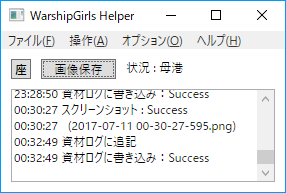
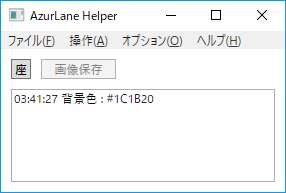
とりあえずリリースするために体裁を整えた

diff --git a/WsGH/Views/MainWindow.xaml b/WsGH/Views/MainWindow.xaml
@@ -23,7 +23,7 @@
 			<MenuItem Header="{Binding Source={x:Static app:ResourceService.Current}, Path=Resources.MenuHeaderAction, Mode=OneWay}">
 				<MenuItem Header="{Binding Source={x:Static app:ResourceService.Current}, Path=Resources.MenuHeaderGetPosition, Mode=OneWay}" Click="GetPositionMenu_Click" />
 				<MenuItem Header="{Binding Source={x:Static app:ResourceService.Current}, Path=Resources.MenuHeaderGetScreenshot, Mode=OneWay}" x:Name="GetScreenshotMenu" IsEnabled="False" Click="GetScreenshotMenu_Click" />
-				<MenuItem Header="{Binding Source={x:Static app:ResourceService.Current}, Path=Resources.MenuHeaderShowWindow, Mode=OneWay}">
+				<MenuItem IsEnabled="False" Header="{Binding Source={x:Static app:ResourceService.Current}, Path=Resources.MenuHeaderShowWindow, Mode=OneWay}">
 					<MenuItem Header="{Binding Source={x:Static app:ResourceService.Current}, Path=Resources.MenuHeaderTimerWindow, Mode=OneWay}" Click="ShowTimerWindow_Click" />
 					<MenuItem Header="{Binding Source={x:Static app:ResourceService.Current}, Path=Resources.MenuHeaderSupplyWindow, Mode=OneWay}" Click="ShowSupplyWindow_Click" />
 				</MenuItem>

diff --git a/WsGH/Views/MainWindow.xaml.cs b/WsGH/Views/MainWindow.xaml.cs
@@ -160,7 +160,7 @@ namespace AzLH {
 			#endregion
 			#region 周辺クラスの初期化
 			SceneRecognition.InitialSceneRecognition();
-			try {
+			/*try {
 				SupplyStore.ReadMainSupply();
 				AddLog($"{Properties.Resources.LoggingTextReadSupplyData}：Success");
 			} catch(Exception) {
@@ -172,7 +172,7 @@ namespace AzLH {
 			}
 			catch (Exception) {
 				AddLog($"{Properties.Resources.LoggingText2ReadSupplyData}：Failed");
-			}
+			}*/
 			#endregion
 			#region DispatcherTimerの初期化
 			// タイマーを作成する
@@ -358,51 +358,51 @@ namespace AzLH {
 				var bindData = tw.DataContext as TimerValue;
 				switch(scene) {
 				case SceneType.Expedition:
-					#region 遠征中なら、遠征時間を読み取る
-					var expEndTime = SceneRecognition.GetExpeditionTimer(captureFrame);
-					foreach(var pair in expEndTime) {
-						switch(pair.Key) {
-						case 0:
-							bindData.ExpTimer1 = pair.Value;
-							break;
-						case 1:
-							bindData.ExpTimer2 = pair.Value;
-							break;
-						case 2:
-							bindData.ExpTimer3 = pair.Value;
-							break;
-						case 3:
-							bindData.ExpTimer4 = pair.Value;
-							break;
-						default:
-							break;
-						}
+				/*#region 遠征中なら、遠征時間を読み取る
+				var expEndTime = SceneRecognition.GetExpeditionTimer(captureFrame);
+				foreach(var pair in expEndTime) {
+					switch(pair.Key) {
+					case 0:
+						bindData.ExpTimer1 = pair.Value;
+						break;
+					case 1:
+						bindData.ExpTimer2 = pair.Value;
+						break;
+					case 2:
+						bindData.ExpTimer3 = pair.Value;
+						break;
+					case 3:
+						bindData.ExpTimer4 = pair.Value;
+						break;
+					default:
+						break;
 					}
-					break;
-				#endregion
+				}
+				break;
+				#endregion*/
 				case SceneType.Build:
-					#region 建造中なら、建造時間を読み取る
-					var buildEndTime = SceneRecognition.GetBuildTimer(captureFrame);
-					foreach(var pair in buildEndTime) {
-						switch(pair.Key) {
-						case 0:
-							bindData.BuildTimer1 = pair.Value;
-							break;
-						case 1:
-							bindData.BuildTimer2 = pair.Value;
-							break;
-						case 2:
-							bindData.BuildTimer3 = pair.Value;
-							break;
-						case 3:
-							bindData.BuildTimer4 = pair.Value;
-							break;
-						default:
-							break;
-						}
+				/*#region 建造中なら、建造時間を読み取る
+				var buildEndTime = SceneRecognition.GetBuildTimer(captureFrame);
+				foreach(var pair in buildEndTime) {
+					switch(pair.Key) {
+					case 0:
+						bindData.BuildTimer1 = pair.Value;
+						break;
+					case 1:
+						bindData.BuildTimer2 = pair.Value;
+						break;
+					case 2:
+						bindData.BuildTimer3 = pair.Value;
+						break;
+					case 3:
+						bindData.BuildTimer4 = pair.Value;
+						break;
+					default:
+						break;
 					}
-					break;
-				#endregion
+				}
+				break;
+				#endregion*/
 				case SceneType.Home:
 
 				default:
@@ -411,7 +411,7 @@ namespace AzLH {
 				#endregion
 				#region 資材ロギング
 				// MainSupplyは、前回のロギングから一定時間以上経っていて、かつ読み込み可能なシーンなら追記する
-				if(SupplyStore.CanAddMainSupply() && SceneRecognition.CanReadMainSupply(captureFrame)) {
+				/*if(SupplyStore.CanAddMainSupply() && SceneRecognition.CanReadMainSupply(captureFrame)) {
 					// 現在時刻と資源量を取得
 					var nowTime = DateTime.Now;
 					var supply = SceneRecognition.GetMainSupply(captureFrame);
@@ -427,14 +427,14 @@ namespace AzLH {
 					}
 					// グラフに反映
 					sw.DrawChart();
-				}
+				}*/
 				// SubSupplyの読み込み処理は、対象が4種類あるのでややこしい
-				for(int ti = 0; ti < SupplyStore.SubSupplyTypes; ++ti) {
+				/*for(int ti = 0; ti < SupplyStore.SubSupplyTypes; ++ti) {
 					// 追記可能なタイミングじゃないと追記しない
 					if (!SupplyStore.CanAddSubSupply(ti))
 						continue;
 					// 追記可能なシーンじゃないと追記しない
-					/*switch (ti) {
+					switch (ti) {
 					case 0:
 						if (scene != SceneType.Dock)
 							continue;
@@ -451,7 +451,7 @@ namespace AzLH {
 						if (scene != SceneType.DevelopRecipe)
 							continue;
 						break;
-					}*/
+					}
 					continue;
 					// 現在時刻と資源量を取得
 					var nowTime = DateTime.Now;
@@ -471,7 +471,7 @@ namespace AzLH {
 					sw.DrawChart();
 
 					SupplyStore.ShowSubSupply(ti);
-				}
+				}*/
 				#endregion
 			}
 			#endregion

diff --git a/help/help.md b/help/help.md
@@ -1,4 +1,4 @@
-# WGH ヘルプファイル
+# AzurLane Helper ヘルプファイル
 
 ## 全般
 - 全てのウィンドウはマウスで(タイトルバー以外を掴んでも)ドラッグできます
@@ -13,7 +13,7 @@
  - yyyy-mm-dd hh-mm-ss-mmm(_twi).png……保存したスクショ画像(twiと入っているのはツイート用)
 
 ## メイン画面
-![MainWindow]()
+![MainWindow](https://user-images.githubusercontent.com/3734392/31906920-4e416b8c-b86d-11e7-81f9-2585f919144d.png)
 
 - まずメニューから、「《オプション|Option》→《背景色|Background》→」と進んでください
  - これを正しく設定しないと、アズールレーンを表示しているウィンドウの位置が取得できません
@@ -33,29 +33,4 @@
 - アズールレーンの画面が移動すると、それを自動検知してズレ修正を試みます
  - 成功すると新座標がログに表示され、失敗すると「《画像保存|ScreenShot》」ボタンがクリックできなくなります
 - メニューから、「《ヘルプ|Help》→《バージョン情報...|About...》」でソフト情報が表示されます
-- メニューから、「《操作|Action》→《ウィンドウを表示|Show Window》→《タイマー画面|TimerWindow》」でタイマー画面が表示されます
 - 画面下の方には実行ログが表示されています
-
-## タイマー画面
-![TimerWindow]()
-
-- ウィンドウタイトル：《タイマー画面|TimerWindow》
-- 遠征・建造・開発・入渠における残時間が表示されます
-- この更新は1秒毎に行われます
-- アズールレーンの画面が遠征から離れても、各種タイマーはカウントを続けています
-- ソフトを一旦終了させて、再起動してもタイマーはカウントを続けています
-
-## 資材記録画面
-![SupplyWindow]()
-![SupplyWindow2]()
-
-- ウィンドウタイトル：《資材記録画面|SupplyWindow》
-- アズールレーンで扱う様々な資材の推移が表示されます
-- 1枚目は通常資材(燃料・弾薬・鋼材・ボーキサイト・ダイヤモンド)を表示しています
-- 2枚目は特殊資材(高速修復材・高速建造材・艦船設計図・装備設計図)を表示しています
-- 画面下には、各日付毎の資材の変化量がListViewで表示されます
-- 資材記録は60分毎に更新されます
-- グラフ(折れ線)において、X軸は時刻ですが、Y軸は右がダイヤ・左がそれ以外となっています
-- 資材量は随時CSVデータに書き出されます。起動時はそこから読み込みます
-- 「再読み込み」ボタンを押すとCSVデータが即時に読み出されます(データ修正を即時反映できる)
-- 通常資材はMainSupply.csv、特殊資材はSubSupply1.csv～SubSupply4.csvに保存されます

diff --git a/help/history.md b/help/history.md
@@ -1,4 +1,4 @@
 # AzurLane Helper 更新履歴
 
-## Ver.1.0.0(2017//)
+## Ver.1.0.0(2017/10/24)
 - 最初のリリース
